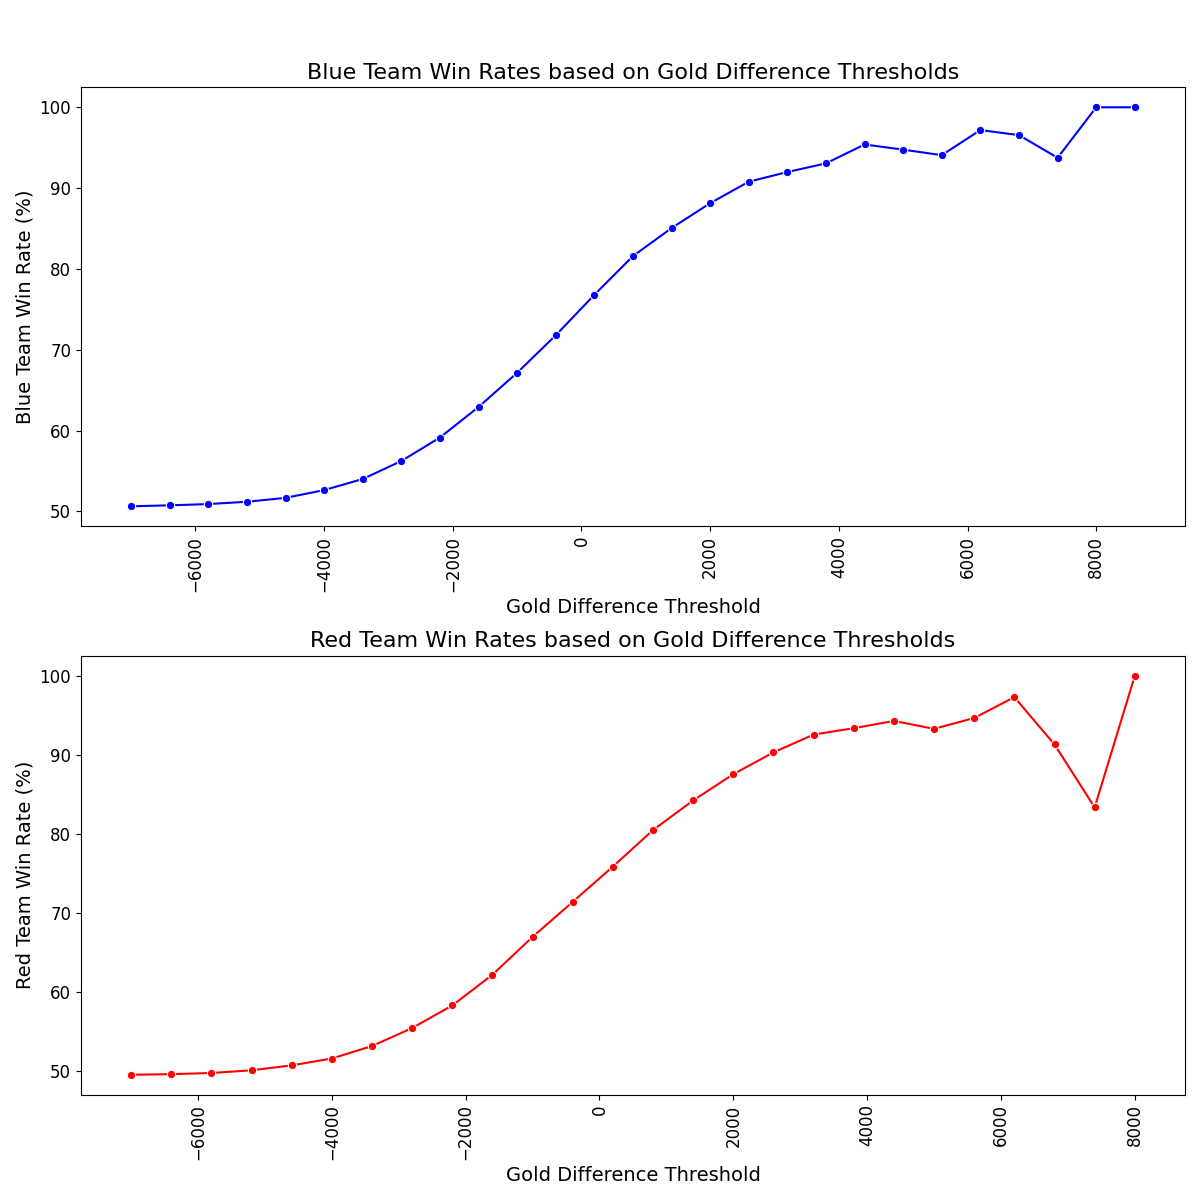
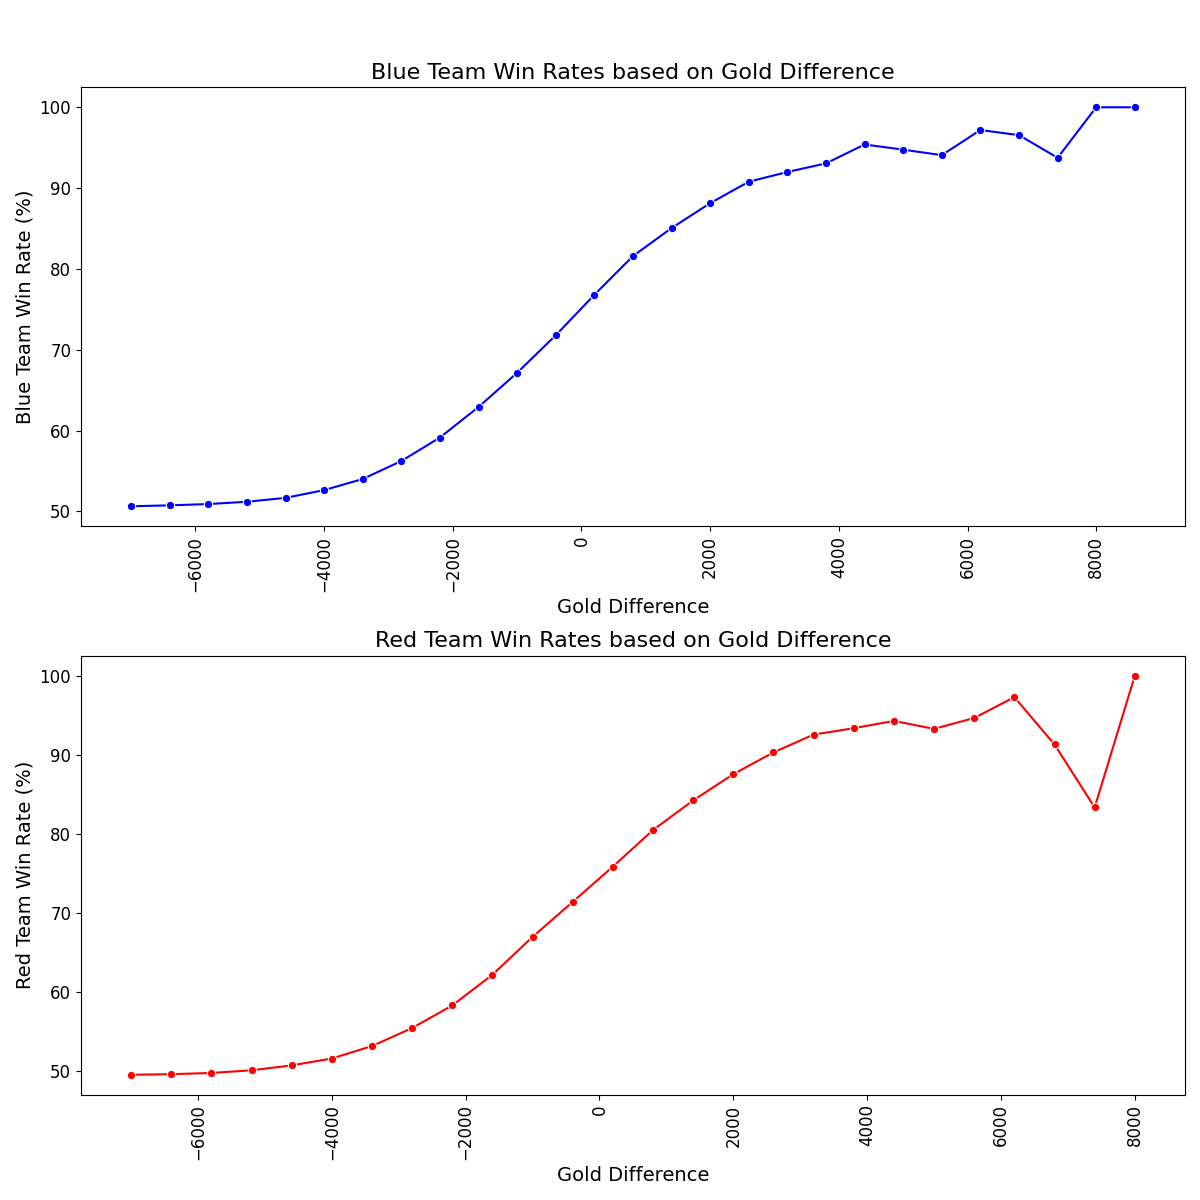
data analyzes plots updated

diff --git a/analyze_data.py b/analyze_data.py
@@ -1,3 +1,4 @@
+from matplotlib import gridspec
 import numpy as np
 import pandas as pd
 import matplotlib.pyplot as plt
@@ -12,62 +13,38 @@ data = pd.read_csv('22-375minof40%.csv')
 def RedVsBlue():
     # Histogram Count for 'blueTotalGold' and 'redTotalGold'
     
-    plt.figure(figsize=(12, 6))
+    plt.figure(figsize=(16, 8))
+    gs = gridspec.GridSpec(2, 2, width_ratios=[2, 2], height_ratios=[2, 2])
 
     # Subplot for 'blueTotalGold'
-    plt.subplot(1, 2, 1)
+    plt.subplot(gs[0])
     plt.hist(x=data['blueTotalGold'], bins=80, color='skyblue', edgecolor='black')
     plt.yticks(fontsize=14)
     plt.xticks(fontsize=14)
-    plt.xlabel('Blue Total Gold @ 10 - 12mins', fontweight='bold', fontsize=18)
-    plt.ylabel('Count of Games', fontsize=18, fontweight='bold')
+    plt.xlabel('Blue Total Gold @ 10 - 12mins', fontsize=14)
+    plt.ylabel('Count of Games', fontsize=14)
     plt.title('Histogram of Blue Total Gold @ 10 - 12mins', fontsize=16, fontweight='bold')
 
     # Subplot for 'redTotalGold'
-    plt.subplot(1, 2, 2)
+    plt.subplot(gs[1])
     plt.hist(x=data['redTotalGold'], bins=80, color='lightcoral', edgecolor='black')
     plt.yticks(fontsize=14)
     plt.xticks(fontsize=14)
-    plt.xlabel('Red Total Gold @ 10 - 12mins', fontweight='bold', fontsize=18)
-    plt.ylabel('Count of Games', fontsize=18, fontweight='bold')
+    plt.xlabel('Red Total Gold @ 10 - 12mins', fontsize=14)
+    plt.ylabel('Count of Games', fontsize=14)
     plt.title('Histogram of Red Total Gold @ 10 - 12mins', fontsize=16, fontweight='bold')
-
-    plt.tight_layout()  # Adjust layout to prevent overlapping
-    plt.savefig('HistoBlueRedTotalGold.png')
     
-
-
-    # Scatter plot for Kills
-    plt.figure(figsize=(10, 6))
-    sns.set_palette("deep")
-    sns.scatterplot(x='blueChampionKill', y='redChampionKill', hue='blueWin', data=data, size='blueWin', sizes=[50, 150])
-    plt.title('Blue vs. Red in Kills @ 10 - 12mins', fontsize=20, fontweight='bold')
-    
-    plt.xlabel('Blue Team Kills', fontsize=16)
-    plt.ylabel('Red Team Kills', fontsize=16)
-    plt.legend(title='Team', title_fontsize='12', loc='upper right', labels=['Blue', 'Blue'])
-    plt.savefig('BlueVsRedKills.png')
-
     # Scatter plot for Gold
-    plt.figure(figsize=(10, 6))
+    plt.subplot(gs[2:])
     sns.set_palette("deep")
     sns.scatterplot(x='blueTotalGold', y='redTotalGold', hue='blueWin', data=data, size='blueWin', sizes=[50, 150])
-    plt.title('Blue vs. Red in Gold @ 10 - 12mins', fontsize=20, fontweight='bold')
+    plt.title('Blue vs. Red in Gold @ 10 - 12mins', fontsize=18, fontweight='bold')
     plt.xlabel('Blue Team Total Gold', fontsize=16)
     plt.ylabel('Red Team Total Gold', fontsize=16)
     plt.legend(title='Team', title_fontsize='12', loc='upper right', labels=['Blue', 'Red'])
+    plt.tight_layout()  # Adjust layout to prevent overlapping
     plt.savefig('BlueVsRedGold.png')
     
-    #Box and Whisker Plot for 'fullTimeMin'
-    # All the games fall within expections since games were filtered based on game duration anyways
-    plt.figure(figsize=(8, 6))
-    sns.boxplot(y=data['fullTimeMin'])
-    plt.yticks(fontsize=14)
-    plt.xticks(fontsize=14)
-    plt.xlabel('All Games', fontsize=18)
-    plt.ylabel('Minutes', fontsize=18, fontweight='bold')
-    plt.title('Box and Whisker Plot of Total Game Durations', fontsize=20, fontweight='bold')
-    plt.savefig('BoxTimeofGames.png')
 
 
 def ChampionKills():
@@ -79,8 +56,6 @@ def ChampionKills():
     # Define the thresholds
     thresholds = range(0, 15, 1)
 
-    # Create subplots
-    fig, axes = plt.subplots(2, 1, figsize=(12, 12))
 
     # Initialize lists to store win rates and corresponding thresholds for both blue and red teams
     blue_win_rates = []
@@ -101,26 +76,51 @@ def ChampionKills():
     blue_data_for_line_plot = pd.DataFrame({'ChampionKillsDiff': champion_kills_diffs, 'BlueWinRate': blue_win_rates})
     red_data_for_line_plot = pd.DataFrame({'ChampionKillsDiff': champion_kills_diffs, 'RedWinRate': red_win_rates})
 
-    # Create subplots
-    fig, axes = plt.subplots(2, 1, figsize=(12, 12))
+   # Create subplots
+    fig, axes = plt.subplots(2, 2, figsize=(16, 16))
 
     # Line plot for blue team
-    sns.lineplot(x='ChampionKillsDiff', y='BlueWinRate', marker='o', data=blue_data_for_line_plot, color='blue', ax=axes[0])
-    axes[0].set_title('Blue Team Win Rates based on Champion Kills Difference Thresholds', fontsize=16)
-    axes[0].set_xlabel('Champion Kills Difference Threshold', fontsize=14)
-    axes[0].set_ylabel('Blue Team Win Rate (%)', fontsize=14)
-    axes[0].tick_params(axis='x')
-    axes[0].tick_params(axis='both', labelsize=12)
+    sns.lineplot(x='ChampionKillsDiff', y='BlueWinRate', marker='o', data=blue_data_for_line_plot, color='blue', ax=axes[0, 0])
+    axes[0, 0].set_title('Blue Team Win Rates based on Champion Kills Difference', fontsize=16,fontweight='bold')
+    axes[0, 0].set_xlabel('Champion Kills Difference', fontsize=14)
+    axes[0, 0].set_ylabel('Blue Team Win Rate (%)', fontsize=14)
+    axes[0, 0].tick_params(axis='x')
+    axes[0, 0].tick_params(axis='both', labelsize=12)
 
     # Line plot for red team
-    sns.lineplot(x='ChampionKillsDiff', y='RedWinRate', marker='o', data=red_data_for_line_plot, color='red', ax=axes[1])
-    axes[1].set_title('Red Team Win Rates based on Champion Kills Difference Thresholds', fontsize=16)
-    axes[1].set_xlabel('Champion Kills Difference Threshold', fontsize=14)
-    axes[1].set_ylabel('Red Team Win Rate (%)', fontsize=14)
-    axes[1].tick_params(axis='x')
-    axes[1].tick_params(axis='both', labelsize=12)
+    sns.lineplot(x='ChampionKillsDiff', y='RedWinRate', marker='o', data=red_data_for_line_plot, color='red', ax=axes[1, 0])
+    axes[1, 0].set_title('Red Team Win Rates based on Champion Kills Difference', fontsize=16,fontweight='bold')
+    axes[1, 0].set_xlabel('Champion Kills Difference', fontsize=14)
+    axes[1, 0].set_ylabel('Red Team Win Rate (%)', fontsize=14)
+    axes[1, 0].tick_params(axis='x')
+    axes[1, 0].tick_params(axis='both', labelsize=12)
 
-    # Adjust layout and save the plot
+    # Scatter plot for Kills
+    sns.set_palette("deep")
+    sns.scatterplot(x='blueChampionKill', y='redChampionKill', hue='blueWin', data=data, size='blueWin', sizes=[50, 150], ax=axes[0, 1])
+    axes[0, 1].set_title('Blue vs. Red in Kills @ 10 - 12mins', fontsize=16, fontweight='bold')
+    axes[0, 1].set_xlabel('Blue Team Kills', fontsize=14)
+    axes[0, 1].set_ylabel('Red Team Kills', fontsize=14)
+    axes[0, 1].legend(title='Team', title_fontsize='12', loc='upper right', labels=['Blue', 'Blue'])
+    axes[0, 1].tick_params(axis='x')
+    axes[0, 1].tick_params(axis='both', labelsize=12)
+
+
+    # Bar plot for kill difference in blue game wins
+    sns.set_palette("deep")
+    
+    blue_team_wins = data[data['blueWin'] == 1]['blueWin'].count()
+    print(f"Number of Blue Team Wins: {blue_team_wins}")
+    
+    positive_kills_diff_data = data[data['ChampionKillsDiff'] >= 0]
+    sns.countplot(x='ChampionKillsDiff', data=positive_kills_diff_data , ax=axes[1, 1])
+    
+    axes[1, 1].set_title('Blue Team Wins vs. Champion Kills Difference', fontsize=16, fontweight='bold')
+    axes[1, 1].set_xlabel('Champion Kills Difference', fontsize=14)
+    axes[1, 1].set_ylabel('Number of Games Blue Team Won', fontsize=14)
+    axes[1, 1].tick_params(axis='x')
+    axes[1, 1].tick_params(axis='both', labelsize=12)
+
     plt.tight_layout(rect=[0, 0, 1, 0.96])
     plt.savefig("ChampionKill_Difference_Thresholds_LinePlot_Subplots.png")
 
@@ -152,16 +152,16 @@ def GoldDiff():
 
     # Line plot for blue team
     sns.lineplot(x='GoldDiff', y='BlueWinRate', marker='o', data=blue_data_for_line_plot, color='blue', ax=axes[0])
-    axes[0].set_title('Blue Team Win Rates based on Gold Difference Thresholds', fontsize=16)
-    axes[0].set_xlabel('Gold Difference Threshold', fontsize=14)
+    axes[0].set_title('Blue Team Win Rates based on Gold Difference', fontsize=16)
+    axes[0].set_xlabel('Gold Difference', fontsize=14)
     axes[0].set_ylabel('Blue Team Win Rate (%)', fontsize=14)
     axes[0].tick_params(axis='x', rotation=90)
     axes[0].tick_params(axis='both', labelsize=12)
 
     # Line plot for red team
     sns.lineplot(x='GoldDiff', y='RedWinRate', marker='o', data=red_data_for_line_plot, color='red', ax=axes[1])
-    axes[1].set_title('Red Team Win Rates based on Gold Difference Thresholds', fontsize=16)
-    axes[1].set_xlabel('Gold Difference Threshold', fontsize=14)
+    axes[1].set_title('Red Team Win Rates based on Gold Difference', fontsize=16)
+    axes[1].set_xlabel('Gold Difference', fontsize=14)
     axes[1].set_ylabel('Red Team Win Rate (%)', fontsize=14)
     axes[1].tick_params(axis='x', rotation=90)
     axes[1].tick_params(axis='both', labelsize=12)
@@ -180,7 +180,7 @@ def DragonKills():
     # Bar plot for Blue Team Win Rate based on Dragon Kills Thresholds
     win_rates = [data[data['blueDragonKill'] > threshold]['blueWin'].mean() * 100 for threshold in thresholds]
     axes[0].bar(thresholds, win_rates, color='darkgreen', alpha=0.7)
-    axes[0].set_title('Blue Team Win Rate based on Dragon Kills Thresholds', fontsize=16)
+    axes[0].set_title('Blue Team Win Rate based on Dragon Kills', fontsize=16)
     axes[0].set_xlabel('Dragon Kills Threshold', fontsize=14)
     axes[0].set_ylabel('Blue Team Win Rate (%)', fontsize=14)
     axes[0].set_xticks(thresholds)
@@ -212,22 +212,7 @@ def minionsKilledTotal():
         .reset_index()
         .rename(columns={'blueMinionsKilledTotal': 'MinionsKilledTotal', 'blueWin': 'WinRate'})
     )
-
-    # Smooth the data using lowess
-    smoothed_values = lowess(blue_minions_data_for_line_plot['WinRate'], blue_minions_data_for_line_plot['MinionsKilledTotal'], frac=0.1)[:, 1] * 100
-    blue_minions_data_for_line_plot_smoothed = pd.DataFrame({'MinionsKilledTotal': blue_minions_data_for_line_plot['MinionsKilledTotal'], 'SmoothedWinRate': smoothed_values})
-
-    # Plot for blue team
-    plt.figure(figsize=(12, 9))
-    plt.subplot(3, 1, 1)
-    sns.lineplot(x='MinionsKilledTotal', y='SmoothedWinRate', data=blue_minions_data_for_line_plot_smoothed, color='green')
-    plt.title('Blue Team Win Rate based on Minions Killed Total', fontsize=16)
-    plt.xlabel('Minions Killed Total', fontsize=14)
-    plt.ylabel('Blue Team Win Rate (%)', fontsize=14)
-    plt.xticks(fontsize=12)
-    plt.yticks(fontsize=12)
-    plt.grid(True)
-
+    
     # Calculate win rate for each value of redMinionsKilledTotal
     red_minions_data_for_line_plot = (
         data.groupby('redMinionsKilledTotal')['redWin']
@@ -235,13 +220,55 @@ def minionsKilledTotal():
         .reset_index()
         .rename(columns={'redMinionsKilledTotal': 'MinionsKilledTotal', 'redWin': 'WinRate'})
     )
-
+    
+    # Calculate win rate for each difference value
+    minions_diff_data_for_line_plot = (
+        data.groupby('MinionsKilledDiff')['blueWin']
+        .mean()
+        .reset_index()
+        .rename(columns={'blueWin': 'WinRateDiff'})
+    )
+    
+    plt.figure(figsize=(30, 25))
+    
+    frac=0.035
     # Smooth the data using lowess
-    smoothed_values_red = lowess(red_minions_data_for_line_plot['WinRate'], red_minions_data_for_line_plot['MinionsKilledTotal'], frac=0.1)[:, 1]* 100
+    smoothed_values = lowess(blue_minions_data_for_line_plot['WinRate'], blue_minions_data_for_line_plot['MinionsKilledTotal'], frac=frac)[:, 1] * 100
+    blue_minions_data_for_line_plot_smoothed = pd.DataFrame({'MinionsKilledTotal': blue_minions_data_for_line_plot['MinionsKilledTotal'], 'SmoothedWinRate': smoothed_values})
+    
+    smoothed_values_red = lowess(red_minions_data_for_line_plot['WinRate'], red_minions_data_for_line_plot['MinionsKilledTotal'], frac=frac)[:, 1]* 100
     red_minions_data_for_line_plot_smoothed = pd.DataFrame({'MinionsKilledTotal': red_minions_data_for_line_plot['MinionsKilledTotal'], 'SmoothedWinRate': smoothed_values_red})
+    
+    smoothed_values_diff = lowess(minions_diff_data_for_line_plot['WinRateDiff'], minions_diff_data_for_line_plot['MinionsKilledDiff'], frac=frac)[:, 1]* 100
+    minions_diff_data_for_line_plot_smoothed = pd.DataFrame({'MinionsKilledDiff': minions_diff_data_for_line_plot['MinionsKilledDiff'], 'SmoothedWinRate': smoothed_values_diff})
+
+    # Plot for blue team
+    plt.subplot(3, 2, 1)
+    sns.lineplot(x='MinionsKilledTotal', y='SmoothedWinRate', data=blue_minions_data_for_line_plot_smoothed, color='green')
+    plt.title('Blue Team Win Rate based on Minions Killed Total', fontsize=16)
+    plt.xlabel('Minions Killed Total', fontsize=14)
+    plt.ylabel('Blue Team Win Rate (%)', fontsize=14)
+    plt.xticks(fontsize=12)
+    plt.yticks(fontsize=12)
+    plt.grid(True)
+    
+    '''
+
+    Moving average smoothing using rolling
+    plt.subplot(3, 2, 1)
+    blue_minions_data_for_line_plot['WinRate_MA'] = blue_minions_data_for_line_plot['WinRate'].rolling(window=9).mean()
+    sns.lineplot(x='MinionsKilledTotal', y='WinRate_MA', data=blue_minions_data_for_line_plot, color='green', label='Moving Average')
+    plt.title('Blue Team Win Rate based on Minions Killed Total (Moving Average)', fontsize=16)
+    plt.xlabel('Minions Killed Total', fontsize=14)
+    plt.ylabel('Blue Team Win Rate (%)', fontsize=14)
+    plt.xticks(fontsize=12)
+    plt.yticks(fontsize=12)
+    plt.grid(True)
+    
+    '''
 
     # Plot for red team
-    plt.subplot(3, 1, 2)
+    plt.subplot(3, 2, 3)
     sns.lineplot(x='MinionsKilledTotal', y='SmoothedWinRate', data=red_minions_data_for_line_plot_smoothed, color='red')
     plt.title('Red Team Win Rate based on Minions Killed Total', fontsize=16)
     plt.xlabel('Minions Killed Total', fontsize=14)
@@ -250,19 +277,10 @@ def minionsKilledTotal():
     plt.yticks(fontsize=12)
     plt.grid(True)
 
-    # Calculate win rate for each difference value
-    minions_diff_data_for_line_plot = (
-        data.groupby('MinionsKilledDiff')['blueWin']
-        .mean()
-        .reset_index()
-        .rename(columns={'blueWin': 'WinRateDiff'})
-    )
 
-    smoothed_values_diff = lowess(minions_diff_data_for_line_plot['WinRateDiff'], minions_diff_data_for_line_plot['MinionsKilledDiff'], frac=0.1)[:, 1]* 100
-    minions_diff_data_for_line_plot_smoothed = pd.DataFrame({'MinionsKilledDiff': minions_diff_data_for_line_plot['MinionsKilledDiff'], 'SmoothedWinRate': smoothed_values_diff})
-
+    
     # Plot the difference
-    plt.subplot(3, 1, 3)
+    plt.subplot(3, 2, 5)
     sns.lineplot(x='MinionsKilledDiff', y='SmoothedWinRate', data=minions_diff_data_for_line_plot_smoothed, color='orange')
     plt.title('Blue Team Win Rate based on Minions Killed Difference (Blue - Red)', fontsize=16)
     plt.xlabel('Minions Killed Difference', fontsize=14)
@@ -271,13 +289,47 @@ def minionsKilledTotal():
     plt.yticks(fontsize=12)
     plt.grid(True)
 
+    
+    # Plot for blue team without smoothing
+    blue_minions_data_for_line_plot['WinRateScaled'] = blue_minions_data_for_line_plot['WinRate'] * 100
+    red_minions_data_for_line_plot['WinRateScaled'] = red_minions_data_for_line_plot['WinRate'] * 100
+    minions_diff_data_for_line_plot['WinRateDiffScaled'] = minions_diff_data_for_line_plot['WinRateDiff'] * 100
+    
+    plt.subplot(3, 2, 2)
+    sns.lineplot(x='MinionsKilledTotal', y='WinRateScaled', data=blue_minions_data_for_line_plot, color='green', marker='o', markersize=8)
+    plt.title('Blue Team Win Rate based on Minions Killed Total', fontsize=16)
+    plt.xlabel('Minions Killed Total', fontsize=14)
+    plt.ylabel('Blue Team Win Rate (%)', fontsize=14)
+    plt.xticks(fontsize=12)
+    plt.yticks(fontsize=12)
+    plt.grid(True)
+
+    # Plot for red team without smoothing
+    plt.subplot(3, 2, 4)
+    sns.lineplot(x='MinionsKilledTotal', y='WinRateScaled', data=red_minions_data_for_line_plot, color='red',marker='o', markersize=8)
+    plt.title('Red Team Win Rate based on Minions Killed Total', fontsize=16)
+    plt.xlabel('Minions Killed Total', fontsize=14)
+    plt.ylabel('Red Team Win Rate (%)', fontsize=14)
+    plt.xticks(fontsize=12)
+    plt.yticks(fontsize=12)
+    plt.grid(True)
+
+    # Plot the difference without smoothing
+    plt.subplot(3, 2, 6)
+    sns.lineplot(x='MinionsKilledDiff', y='WinRateDiffScaled', data=minions_diff_data_for_line_plot, color='orange',marker='o', markersize=8)
+    plt.title('Blue Team Win Rate based on Minions Killed Difference (Blue - Red)', fontsize=16)
+    plt.xlabel('Minions Killed Difference', fontsize=14)
+    plt.ylabel('Blue Team Win Rate (%)', fontsize=14)
+    plt.xticks(fontsize=12)
+    plt.yticks(fontsize=12)
+    plt.grid(True)
+        
+    
     # Adjust layout and save the plot
     plt.tight_layout(rect=[0, 0, 1, 0.96])
     plt.savefig("MinionsKilledTotal_WinRate_LinePlot_Subplots_Smoothed.png")
 
     
-
-
 
 
 def main():
